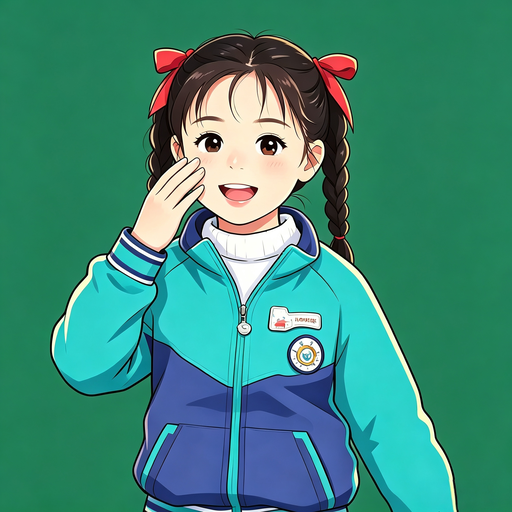
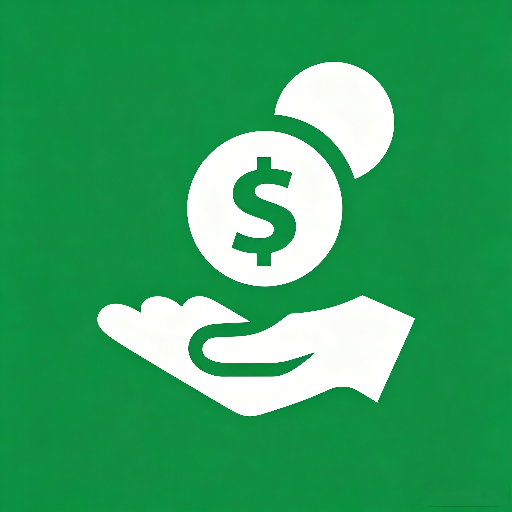
Add files via upload

diff --git a/index.html b/index.html
@@ -32,10 +32,10 @@
             flex-direction: column;
             background: #0d0d11;
             overflow-x: hidden;
-            /* 不再全局加安全区，避免底部导航偏移 */
+            position: relative;
         }
 
-        /* 顶部栏单独处理安全区 */
+        /* 顶部栏安全区 */
         .nav-header {
             background: rgba(18, 18, 26, 0.85);
             backdrop-filter: blur(20px);
@@ -80,11 +80,12 @@
         }
         .month-arrow:active { background: rgba(255,255,255,0.15); }
 
+        /* 滚动区域自动撑满剩余空间 */
         .main-scroll {
             flex: 1;
             overflow-y: auto;
             overflow-x: hidden;
-            padding: 46px 16px 20px;
+            padding: 16px 16px 20px;
             scrollbar-width: thin;
         }
         .tab-pane { display: none; animation: fade 0.2s ease; }
@@ -160,7 +161,7 @@
             font-weight: 800;
             color: white;
         }
-        /* 排班日历外层透明卡片 */
+        /* 排班日历外层透明卡片（仅分组，不改变视觉） */
         .schedule-card {
             background: transparent;
             border-radius: 0;
@@ -244,7 +245,7 @@
         .edit-trigger svg { width: 20px; height: 20px; stroke: #aaa; stroke-width: 1.8; transition: stroke 0.1s; }
         .edit-trigger.done svg { stroke: #F0B90B; }
 
-        /* 底部导航独立固定，加安全区 padding-bottom */
+        /* 底部导航 - 固定在底部，加安全区padding-bottom */
         .bottom-nav {
             background: #0f0f13;
             border-top: 1px solid rgba(255,255,255,0.05);
@@ -261,7 +262,7 @@
         .nav-item svg [fill] { fill: currentColor; }
         .nav-label { font-size: 11px; font-weight: 600; }
 
-        /* 薪资八宫格 */
+        /* 薪资八宫格包裹卡片 */
         .params-wrapper {
             background: transparent;
             border-radius: 0;